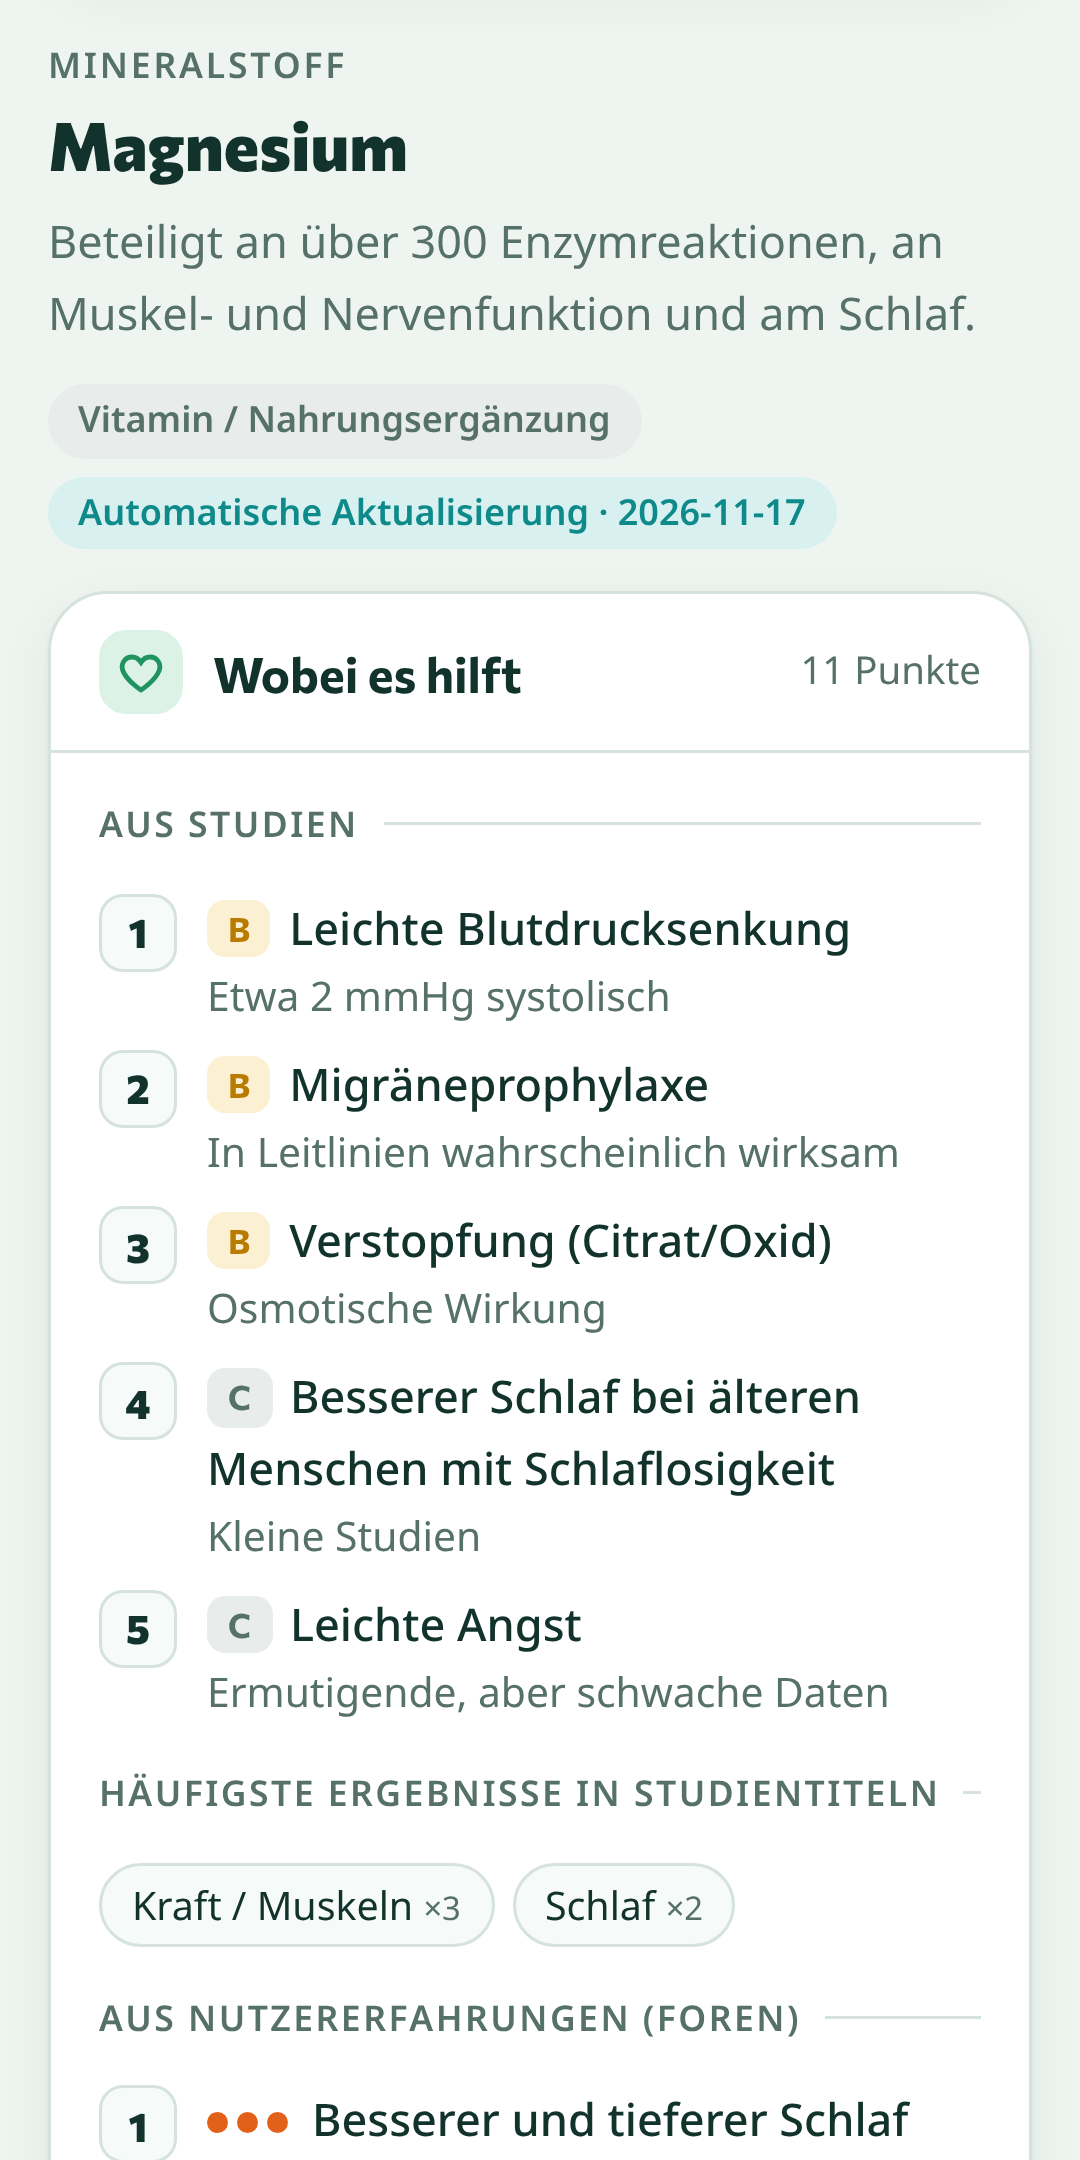
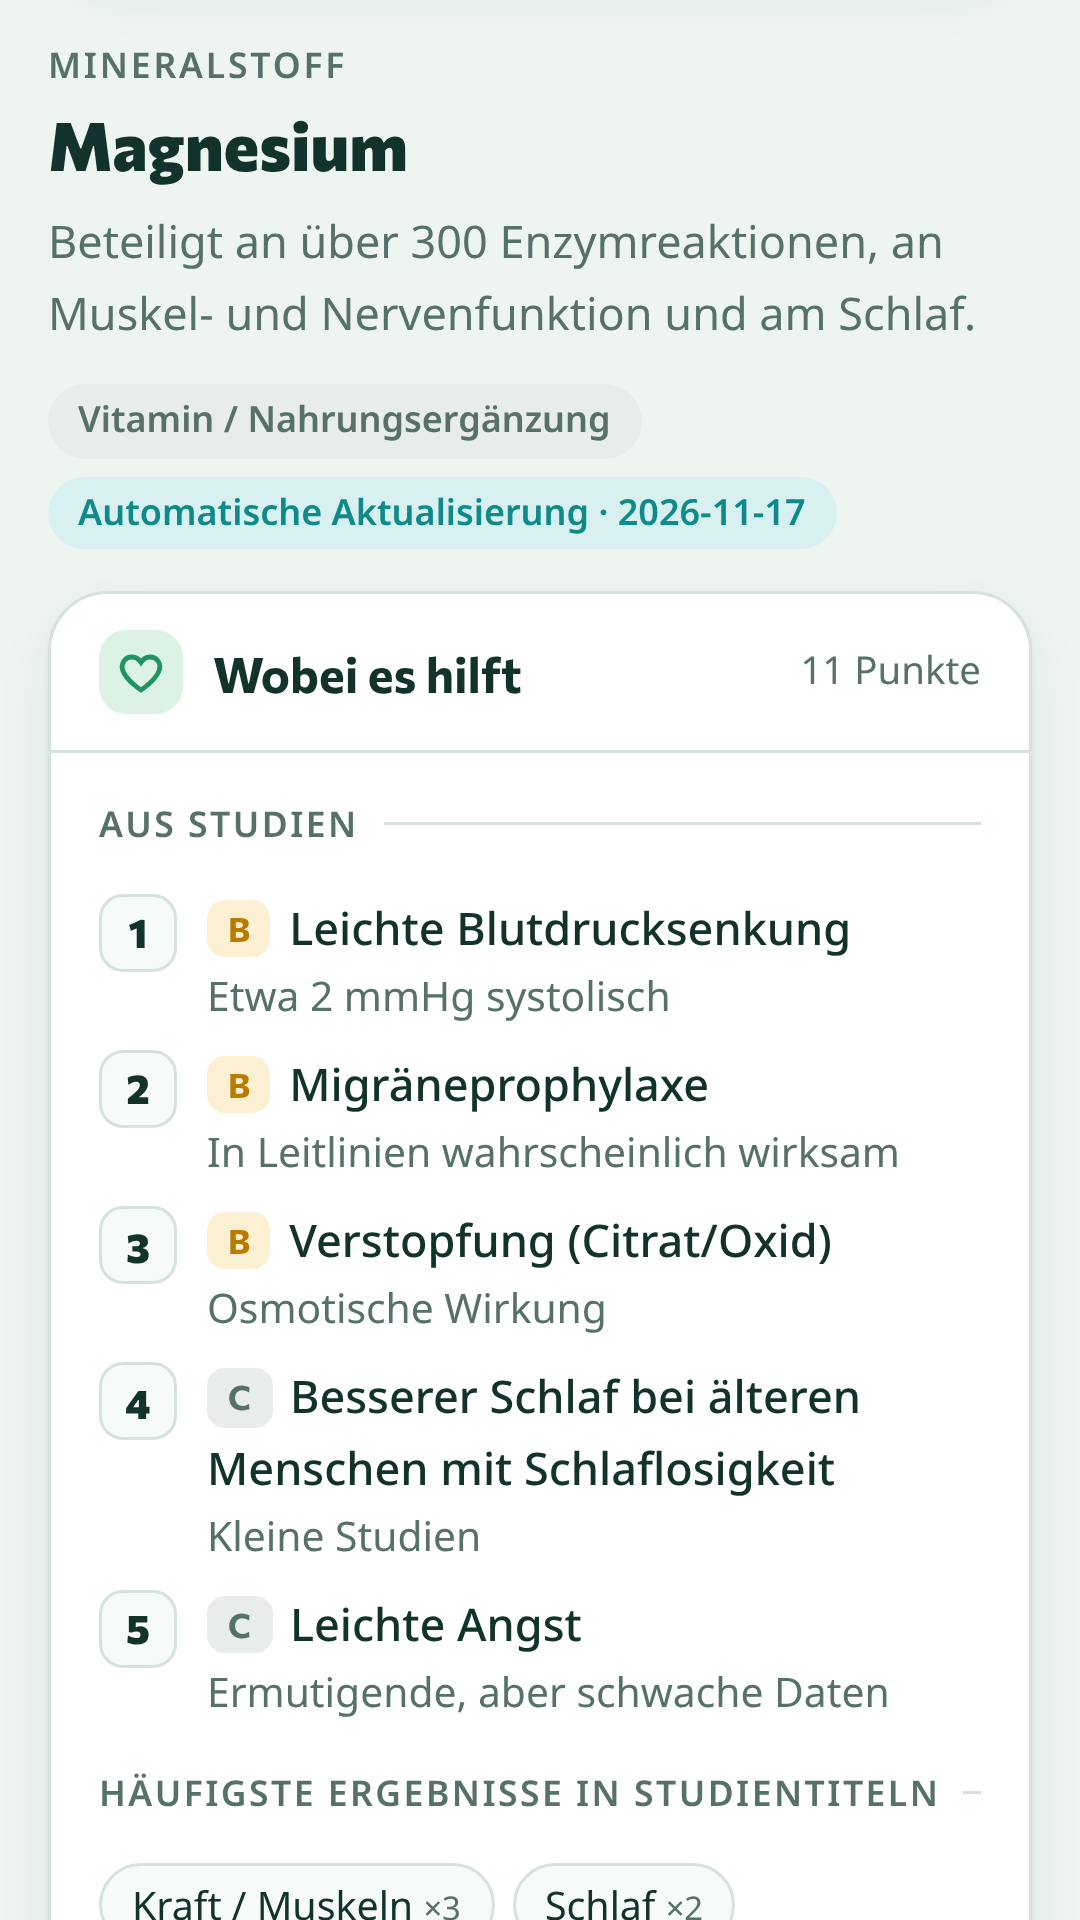
Στιγμιότυπα Play σε 9:16 (1080×1920)
Claude-Session: https://claude.ai/code/session_018UgkC8b37VmF2mLUykRtce

diff --git a/mobile/store/listing.md b/mobile/store/listing.md
@@ -45,4 +45,4 @@ https://teokyriakop.github.io/vitamin-app/privacy.html
 ## Υλικό
 - Εικονίδιο 512×512: icon-512.png
 - Εικόνα προβολής 1024×500: feature-graphic.png
-- Στιγμιότυπα τηλεφώνου 1080×2160: 1-search.png … 6-question.png
+- Στιγμιότυπα τηλεφώνου 1080×1920 (9:16): 1-search.png … 6-question.png

diff --git a/mobile/store/listing-fr.md b/mobile/store/listing-fr.md
@@ -45,4 +45,4 @@ https://teokyriakop.github.io/vitamin-app/privacy-fr.html
 ## Visuels
 - Icône 512×512 : icon-512.png
 - Image de présentation 1024×500 : fr/feature-graphic.png
-- Captures d'écran téléphone 1080×2160 : fr/1-search.png … fr/6-question.png
+- Captures d'écran téléphone 1080×1920 (9:16) : fr/1-search.png … fr/6-question.png

diff --git a/mobile/store/listing-de.md b/mobile/store/listing-de.md
@@ -45,4 +45,4 @@ https://teokyriakop.github.io/vitamin-app/privacy-de.html
 ## Grafiken
 - Symbol 512×512: icon-512.png
 - Vorstellungsgrafik 1024×500: de/feature-graphic.png
-- Smartphone-Screenshots 1080×2160: de/1-search.png … de/6-question.png
+- Smartphone-Screenshots 1080×1920 (9:16): de/1-search.png … de/6-question.png

diff --git a/mobile/store/listing-en.md b/mobile/store/listing-en.md
@@ -45,4 +45,4 @@ https://teokyriakop.github.io/vitamin-app/privacy-en.html
 ## Graphics
 - Icon 512×512: icon-512.png
 - Feature graphic 1024×500: en/feature-graphic.png
-- Phone screenshots 1080×2160: en/1-search.png … en/6-question.png
+- Phone screenshots 1080×1920 (9:16): en/1-search.png … en/6-question.png
